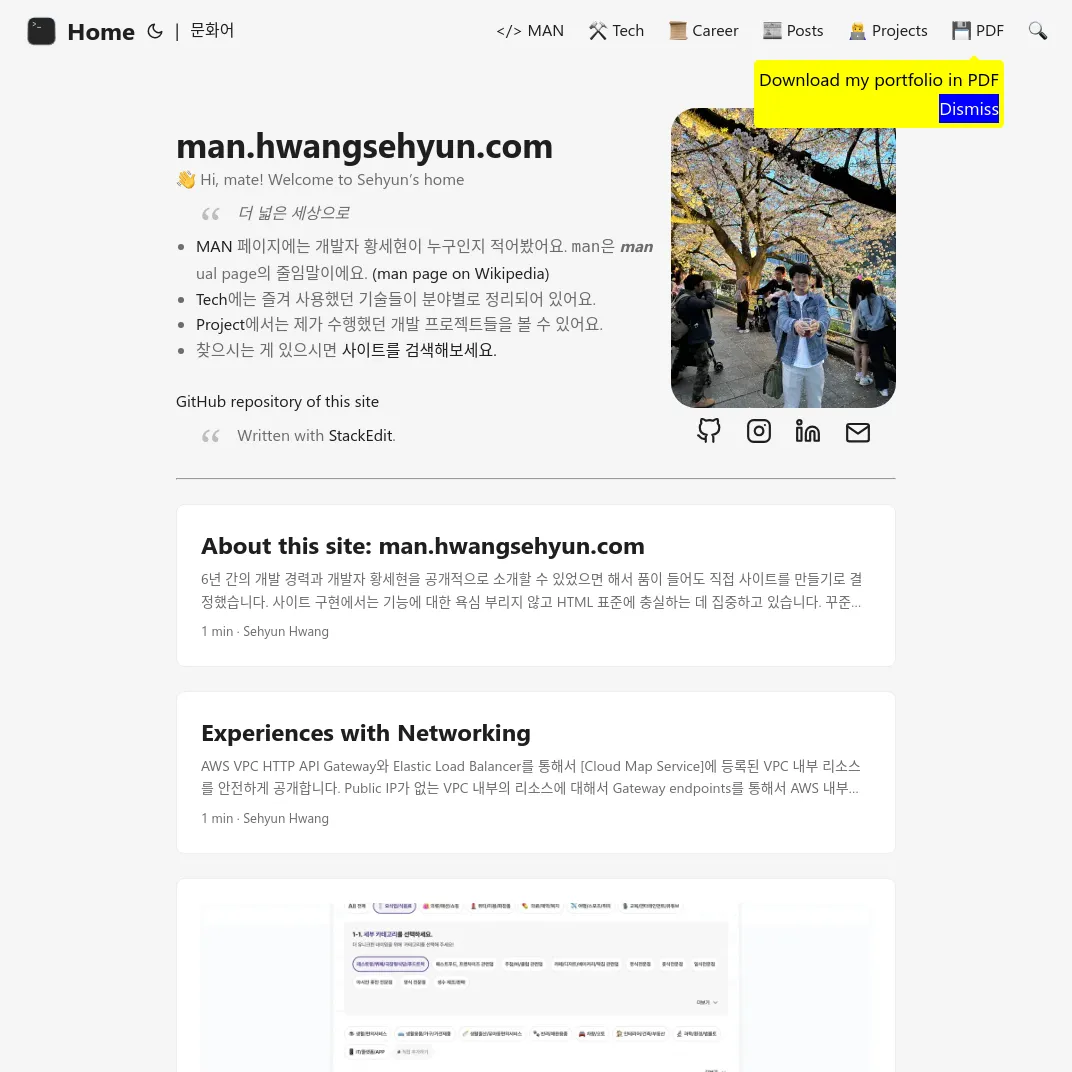
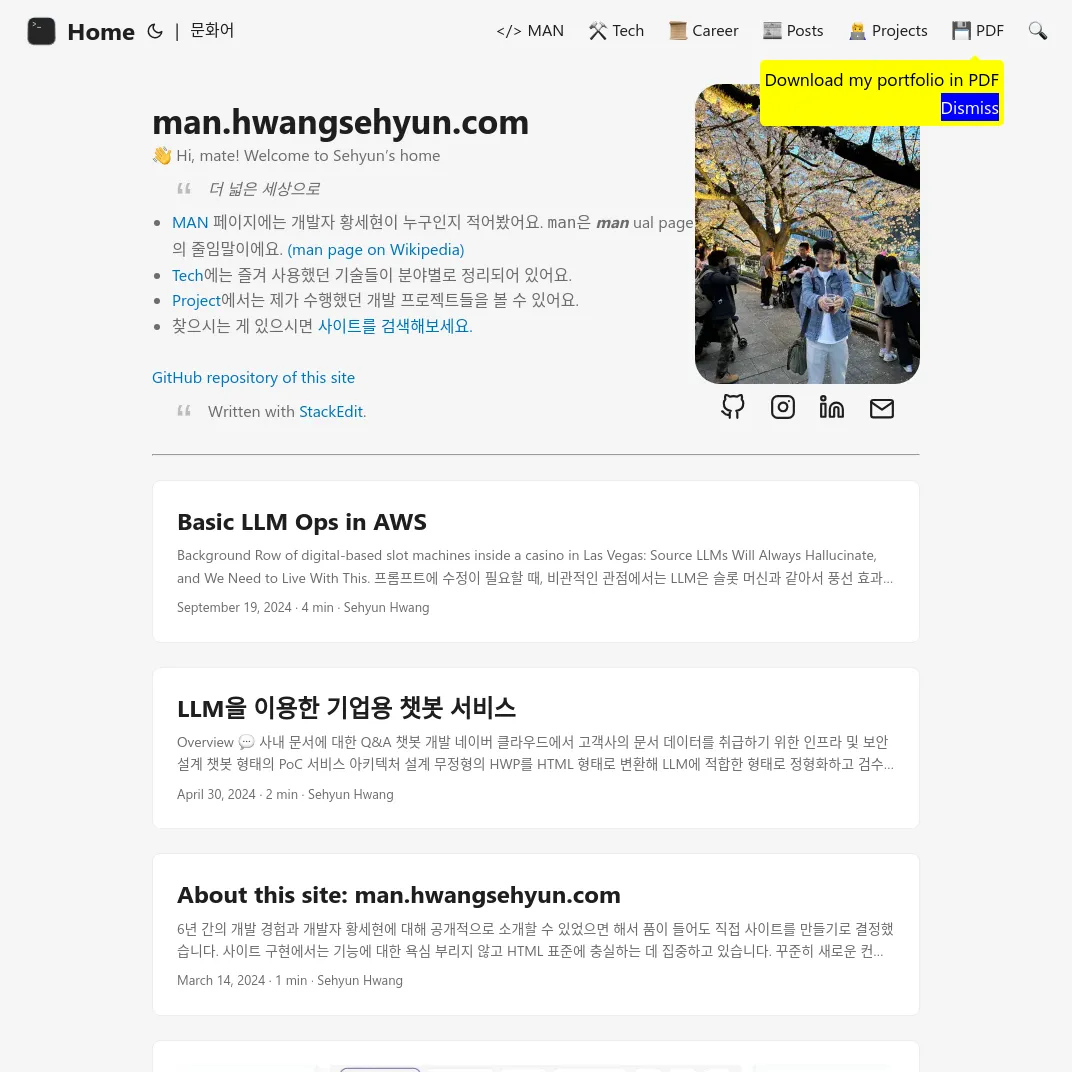
Post deployment margin triage

diff --git a/assets/css/grid.css b/assets/css/grid.css
@@ -7,12 +7,12 @@ table.gridjs-table {
 }
 
 .main {
-  max-width: calc(var(--nav-width) + var(--gap) * 2);
-  margin: auto;
+  max-width: var(--nav-width);
+  margin: var(--gap);
 }
 
 .post-content {
-  max-width: calc(var(--main-width) + var(--gap) * 2);
+  max-width: var(--main-width);
   margin: auto;
 }
 
@@ -140,6 +140,7 @@ table.gridjs-table {
 
   .project-table tr {
     grid-template-columns: 2fr 1fr 1fr 1fr 2fr;
+    margin: 0;
   }
 
   .project-table .gridjs-thead th:last-child {

diff --git a/browser/lib/puppeteer-browser.js b/browser/lib/puppeteer-browser.js
@@ -13,5 +13,5 @@ export default (defaultViewport = undefined) => readdir(BROWSER_FOLDER)
     headless: Boolean(folders),
     args: ['--no-sandbox', '--export-tagged-pdf'],
     defaultViewport,
-    // slowMo: 250,
+    slowMo: 10, // @TODO Demolish
   }));
